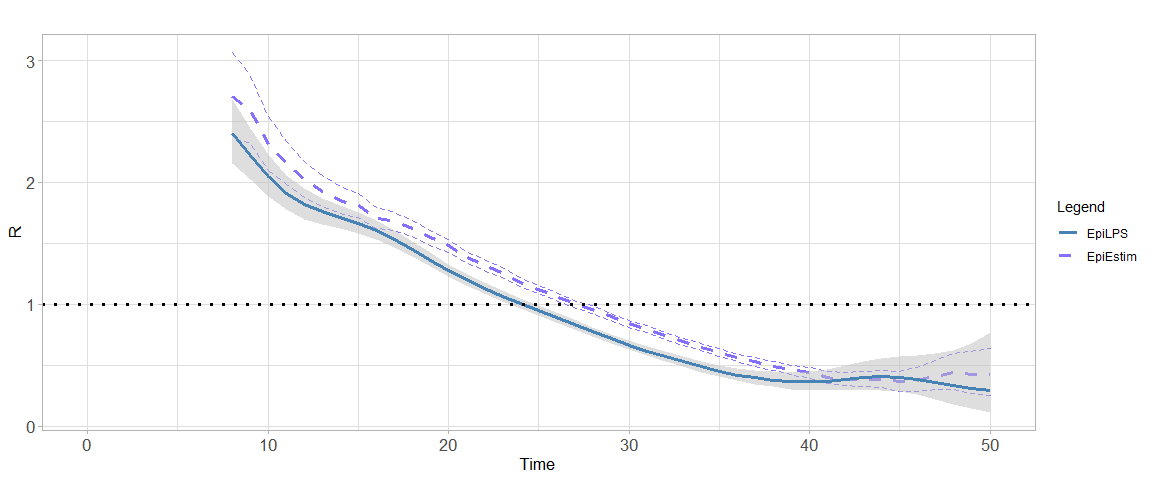
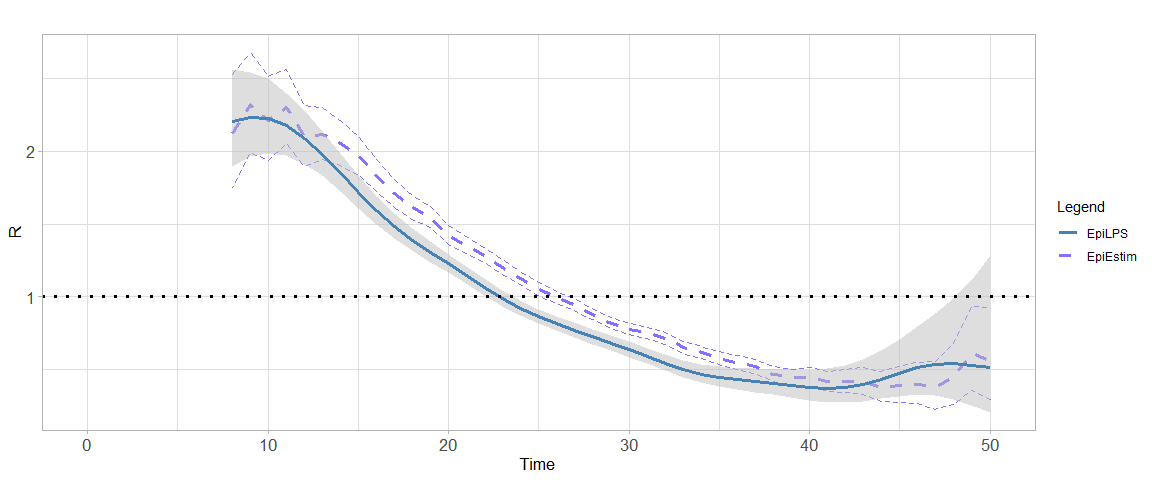
Update README file

Changed region(s): [[0.0312, 0.125, 0.875, 0.8438], [0.0, 0.875, 0.0312, 0.9062]]

diff --git a/README.md b/README.md
@@ -16,65 +16,53 @@ Oswaldo Gressani
 
 ## Aim and scope
 
-EpiLPS <span style="color: blue;"> (Gressani et al. 2021)</span>, is the
+EpiLPS <span style="color: blue;"> (Gressani et al. 2022)</span>, is the
 acronym for **Epi**demiological modeling (tool) with
 **L**aplacian-**P**-**S**plines. It proposes a new Bayesian methodology
-for estimating the instantaneous reproduction number
-![R_t](https://latex.codecogs.com/png.image?%5Cdpi%7B110%7D&space;%5Cbg_white&space;R_t "R_t"),
-i.e. the average number of secondary cases generated by an infectious
-agent at time
-![t](https://latex.codecogs.com/png.image?%5Cdpi%7B110%7D&space;%5Cbg_white&space;t "t")
-<span style="color: blue;"> (White et al., 2020) </span>; a key metric
-for assessing the transmission dynamics of an infectious disease and a
-useful reference for guiding interventions of governmental institutions
-in a public health crisis. The EpiLPS project builds upon two strong
-pillars in the statistical literature, namely Bayesian P-splines and
-Laplace approximations, to deliver a fast and flexible methodology for
-inference on
-![R_t](https://latex.codecogs.com/png.image?%5Cdpi%7B110%7D&space;%5Cbg_white&space;R_t "R_t").
-EpiLPS requires two (external) inputs: (1) a time series of incidence
-counts and (2) a serial or generation interval distribution.
+for estimating the instantaneous reproduction number $R_t$, i.e. the
+average number of secondary cases generated by an infectious agent at
+time $t$ <span style="color: blue;"> (White et al., 2020) </span>; a key
+metric for assessing the transmission dynamics of an infectious disease
+and a useful reference for guiding interventions of governmental
+institutions in a public health crisis. The EpiLPS project builds upon
+two strong pillars in the statistical literature, namely Bayesian
+P-splines and Laplace approximations, to deliver a fast and flexible
+methodology for inference on $R_t$. EpiLPS requires two (external)
+inputs: (1) a time series of incidence counts and (2) a serial or
+generation interval distribution.
 
 The underlying model for smoothing incidence counts is based on the
 Negative Binomial distribution to account for possible overdispersion in
-the data. EpiLPS has a *two-phase engine* for estimating
-![R_t](https://latex.codecogs.com/png.image?%5Cdpi%7B110%7D&space;%5Cbg_white&space;R_t "R_t").
-First, Bayesian P-splines are used to smooth the epidemic curve and to
-compute estimates of the mean incidence count of the susceptible
-population at each day
-![t](https://latex.codecogs.com/png.image?%5Cdpi%7B110%7D&space;%5Cbg_white&space;t "t")
-of the outbreak. Second, in the philosophy of <span
+the data. EpiLPS has a *two-phase engine* for estimating $R_t$. First,
+Bayesian P-splines are used to smooth the epidemic curve and to compute
+estimates of the mean incidence count of the susceptible population at
+each day $t$ of the outbreak. Second, in the philosophy of <span
 style="color: blue;"> Fraser (2007)</span>, the renewal equation is used
 as a bridge to link the estimated mean incidence and the reproduction
 number. As such, the second phase delivers a closed-form expression of
-![R_t](https://latex.codecogs.com/png.image?%5Cdpi%7B110%7D&space;%5Cbg_white&space;R_t "R_t")
-as a function of the B-spline coefficients and the serial interval
+$R_t$ as a function of the B-spline coefficients and the serial interval
 distribution.
 
 Another key strength of EpiLPS is that two different strategies can be
-used to estimate
-![R_t](https://latex.codecogs.com/png.image?%5Cdpi%7B110%7D&space;%5Cbg_white&space;R_t "R_t").
-The first approach called LPSMAP is completely sampling-free and fully
-relies on Laplace approximations and *maximum a posteriori* computation
-of model hyperparameters for estimation. Routines for Laplace
-approximations and B-splines evaluations are typically the ones that are
-computationally most intensive and are therefore coded in C++ and
-integrated in R via the [Rcpp package](https://www.rcpp.org/), making
-them time irrelevant. The second approach is called LPSMALA
-(Laplacian-P-splines with a Metropolis-adjusted Langevin algorithm) and
-is fully stochastic. It samples the posterior of the model by using
-Langevin diffusions in a Metropolis-within-Gibbs framework. Of course,
-LPSMAP has a computational advantage over LPSMALA. Thanks to the
-lightning fast implementation of Laplace approximations, LPSMAP
-typically delivers estimate of
-![R_t](https://latex.codecogs.com/png.image?%5Cdpi%7B110%7D&space;%5Cbg_white&space;R_t "R_t")
-in a fraction of a second. The chart below, summarizes the skeleton and
-mechanisms behind EpiLPS for estimating
-![R_t](https://latex.codecogs.com/png.image?%5Cdpi%7B110%7D&space;%5Cbg_white&space;R_t "R_t").
+used to estimate $R_t$. The first approach called LPSMAP is completely
+sampling-free and fully relies on Laplace approximations and *maximum a
+posteriori* computation of model hyperparameters for estimation.
+Routines for Laplace approximations and B-splines evaluations are
+typically the ones that are computationally most intensive and are
+therefore coded in C++ and integrated in R via the [Rcpp
+package](https://www.rcpp.org/), making them time irrelevant. The second
+approach is called LPSMALA (Laplacian-P-splines with a
+Metropolis-adjusted Langevin algorithm) and is fully stochastic. It
+samples the posterior of the model by using Langevin diffusions in a
+Metropolis-within-Gibbs framework. Of course, LPSMAP has a computational
+advantage over LPSMALA. Thanks to the lightning fast implementation of
+Laplace approximations, LPSMAP typically delivers estimate of $R_t$ in a
+fraction of a second. The chart below, summarizes the skeleton and
+mechanisms behind EpiLPS for estimating $R_t$.
 
 <br> <!-- Include a white space -->
 
-<img src="man/figures/EpiLPSchart.jpg" title="The EpiLPS tool: path from incidence data and serial interval to the estimated reproduction number." alt="The EpiLPS tool: path from incidence data and serial interval to the estimated reproduction number." width="80%" style="display: block; margin: auto;" />
+<img src="man/figures/EpiLPSchart.jpg" alt="The EpiLPS tool: path from incidence data and serial interval to the estimated reproduction number." width="80%" style="display: block; margin: auto;" />
 
 ## Getting started
 
@@ -100,10 +88,10 @@ library("EpiLPS")
 The EpiLPS package structure is fairly simple. It has three main
 routines and an S3 method for plots:
 
--   `epilps()` The main routine for model fit.
--   `plot.epilps()` S3 method to plot an object of class `epilps`.
--   `episim()` A routine to simulate epidemic data.
--   `perfcheck()` Checks the performance of `epilps()` via simulations.
+- `epilps()` The main routine for model fit.
+- `plot.epilps()` S3 method to plot an object of class `epilps`.
+- `episim()` A routine to simulate epidemic data.
+- `perfcheck()` Checks the performance of `epilps()` via simulations.
 
 ## A simulated example
 
@@ -132,13 +120,12 @@ The simulated incidence count data can be accessed by typing:
 simepi$y
 ```
 
-    ##  [1]  10   4  15  13  29  37  61  67 106 112 144 178 221 272 328 352 458 478 515
-    ## [20] 576 547 612 596 566 563 521 487 415 370 296 261 202 152 131  86  62  44  41
-    ## [39]  23  13  11  11   6   4   6   4   1   1   1   0
+    ##  [1]  10   2   9   9  19  20  26  29  61  59 100  94 161 176 208 237 254 310 321
+    ## [20] 308 361 358 317 287 290 281 224 201 170 145 131  91  64  60  34  31  26  14
+    ## [39]  13  11   5   1   5   2   1   3   2   2   1   0
 
 The `epilps()` routine can be used to fit the epidemic data. By default,
-the LPSMAP approach is used with 30 B-splines in the interval
-![\[1;50\]](https://latex.codecogs.com/png.image?%5Cdpi%7B110%7D&space;%5Cbg_white&space;%5B1%3B50%5D "[1;50]")
+the LPSMAP approach is used with 30 B-splines in the interval $[1;50]$
 and a second order penalty. The `plot()` routine on the `epifit_LPSMAP`
 object can be used to plot the estimated reproduction number.
 
@@ -148,9 +135,9 @@ epifit_LPSMAP <- epilps(incidence = simepi$y, serial_interval = si, tictoc = TRU
 
     ## Inference method chosen: LPSMAP. 
     ## CI for LPSMAP computed via lognormal posterior approx. of Rt.Total number of days: 50. 
-    ## Mean Rt discarding first 7 days: 0.935.
-    ## Mean 95% CI of Rt discarding first 7 days: (0.851,1.047) 
-    ## Elapsed real time (wall clock time): 0.25 seconds.
+    ## Mean Rt discarding first 7 days: 0.962.
+    ## Mean 95% CI of Rt discarding first 7 days: (0.846,1.121) 
+    ## Elapsed real time (wall clock time): 0.18 seconds.
 
 ``` r
 plot(epifit_LPSMAP)
@@ -162,13 +149,10 @@ plot(epifit_LPSMAP)
 
 Several options can be specified in the `plot()` routine. For instance,
 graphical parameters such as `themetype` and `rtcol` can be used to
-control the theme and color of the fitted
-![R_t](https://latex.codecogs.com/png.image?%5Cdpi%7B110%7D&space;%5Cbg_white&space;R_t "R_t")
-curve. In addition, the option `overlayEpiestim` can be set to `TRUE` to
-overlay the estimated
-![R_t](https://latex.codecogs.com/png.image?%5Cdpi%7B110%7D&space;%5Cbg_white&space;R_t "R_t")
-curve with the EpiEstim package of <span style="color: blue;"> Cori et
-al., (2013) </span>.
+control the theme and color of the fitted $R_t$ curve. In addition, the
+option `overlayEpiestim` can be set to `TRUE` to overlay the estimated
+$R_t$ curve with the EpiEstim package of <span style="color: blue;">
+Cori et al., (2013) </span>.
 
 ``` r
 plot(epifit_LPSMAP, themetype = "light", rtcol = "steelblue", overlayEpiestim = TRUE)
@@ -178,13 +162,9 @@ plot(epifit_LPSMAP, themetype = "light", rtcol = "steelblue", overlayEpiestim = 
 
 <br>
 
-The numerical values of the estimated
-![R(t)](https://latex.codecogs.com/png.image?%5Cdpi%7B110%7D&space;%5Cbg_white&space;R%28t%29 "R(t)")
-at days
-![t=8,\\dots,14](https://latex.codecogs.com/png.image?%5Cdpi%7B110%7D&space;%5Cbg_white&space;t%3D8%2C%5Cdots%2C14 "t=8,\dots,14")
-obtained with LPSMAP and the associated
-![95\\%](https://latex.codecogs.com/png.image?%5Cdpi%7B110%7D&space;%5Cbg_white&space;95%5C%25 "95\%")
-credible interval can be obtained by typing:
+The numerical values of the estimated $R(t)$ at days $t=8,\dots,14$
+obtained with LPSMAP and the associated $95\%$ credible interval can be
+obtained by typing:
 
 ``` r
 knitr::kable(epifit_LPSMAP$epifit[8:14,2:4])
@@ -192,13 +172,13 @@ knitr::kable(epifit_LPSMAP$epifit[8:14,2:4])
 
 |     |  R_estim | R95CI_low | R95CI_up |
 |:----|---------:|----------:|---------:|
-| 8   | 2.400739 |  2.151855 | 2.678409 |
-| 9   | 2.223205 |  2.023275 | 2.442890 |
-| 10  | 2.049500 |  1.882000 | 2.231908 |
-| 11  | 1.912324 |  1.774338 | 2.061040 |
-| 12  | 1.818282 |  1.696983 | 1.948251 |
-| 13  | 1.759342 |  1.654123 | 1.871254 |
-| 14  | 1.714138 |  1.618886 | 1.814994 |
+| 8   | 2.204270 |  1.894574 | 2.564590 |
+| 9   | 2.236554 |  1.964842 | 2.545839 |
+| 10  | 2.229905 |  1.988416 | 2.500723 |
+| 11  | 2.176162 |  1.973002 | 2.400241 |
+| 12  | 2.087442 |  1.912433 | 2.278466 |
+| 13  | 1.978134 |  1.832564 | 2.135269 |
+| 14  | 1.852436 |  1.726431 | 1.987637 |
 
 A smooth estimate of the epidemic curve can be obtained with the code
 below. The option `epicol` controls the color of the curve and
@@ -228,21 +208,57 @@ si <- c(0.2, 0.2, 0.2, 0.2, 0.2)
 
 # Luxembourg
 Luxembourg <- covid19(country = "LUX", level = 1, verbose = FALSE)
+```
+
+    ## Warning in require_bit64_if_needed(ans): Some columns are type 'integer64'
+    ## but package bit64 is not installed. Those columns will print as strange
+    ## looking floating point data. There is no need to reload the data. Simply
+    ## install.packages('bit64') to obtain the integer64 print method and print the
+    ## data again.
+
+``` r
 dateLUX <- Luxembourg$date[75:649]
 inciLUX <- Luxembourg$hosp[75:649]
 
 # Italy
 Italy <- covid19(country = "ITA", level = 1, verbose = FALSE)
+```
+
+    ## Warning in require_bit64_if_needed(ans): Some columns are type 'integer64'
+    ## but package bit64 is not installed. Those columns will print as strange
+    ## looking floating point data. There is no need to reload the data. Simply
+    ## install.packages('bit64') to obtain the integer64 print method and print the
+    ## data again.
+
+``` r
 dateITA <- Italy$date[42:616]
 inciITA <- Italy$hosp[42:616]
 
 # Canada
 Canada <- covid19(country = "CAN", level = 1, verbose = FALSE)
+```
+
+    ## Warning in require_bit64_if_needed(ans): Some columns are type 'integer64'
+    ## but package bit64 is not installed. Those columns will print as strange
+    ## looking floating point data. There is no need to reload the data. Simply
+    ## install.packages('bit64') to obtain the integer64 print method and print the
+    ## data again.
+
+``` r
 dateCAN <- Canada$date[71:645]
 inciCAN <- Canada$hosp[71:645]
 
 # Japan
 Japan<- covid19(country = "JPN", level = 1, verbose = FALSE)
+```
+
+    ## Warning in require_bit64_if_needed(ans): Some columns are type 'integer64'
+    ## but package bit64 is not installed. Those columns will print as strange
+    ## looking floating point data. There is no need to reload the data. Simply
+    ## install.packages('bit64') to obtain the integer64 print method and print the
+    ## data again.
+
+``` r
 dateJPN <- Japan$date[75:649]
 inciJPN <- Japan$hosp[75:649]
 
@@ -250,6 +266,14 @@ inciJPN <- Japan$hosp[75:649]
 epiLUX <- epilps(incidence = inciLUX, serial_interval = si, verbose = FALSE)
 epiITA <- epilps(incidence = inciITA, serial_interval = si, verbose = FALSE)
 epiCAN <- epilps(incidence = inciCAN, serial_interval = si, verbose = FALSE)
+```
+
+    ## Warning in epilps(incidence = inciCAN, serial_interval = si, verbose =
+    ## FALSE): Count data contains 3.65% of NA values that have been replaced (see
+    ## documentation for details). A 'too high' percentage of NA values can bias the
+    ## analysis, so care should be taken in interpreting the results in this case.
+
+``` r
 epiJPN <- epilps(incidence = inciJPN, serial_interval = si, verbose = FALSE)
 
 gridExtra::grid.arrange(
@@ -270,14 +294,12 @@ nrow = 2, ncol = 2)
 
 To check the (statistical) performance of EpiLPS, the `perfcheck()`
 routine can be used to simulate epidemic outbreaks under four different
-scenarios. Each scenario has a different
-![R_t](https://latex.codecogs.com/png.image?%5Cdpi%7B110%7D&space;%5Cbg_white&space;R_t "R_t")
-curve to be compared with the estimated trajectories fitted by EpiLPS.
-For comparative reasons, the trajectories of EpiEstim (with a weekly
-sliding window) are also shown. The code below simulates 25 epidemic
-outbreaks with a data generating process following scenario 3 and a
-given serial interval distribution. A seed can also be specified for
-reproducibility.
+scenarios. Each scenario has a different $R_t$ curve to be compared with
+the estimated trajectories fitted by EpiLPS. For comparative reasons,
+the trajectories of EpiEstim (with a weekly sliding window) are also
+shown. The code below simulates 25 epidemic outbreaks with a data
+generating process following scenario 3 and a given serial interval
+distribution. A seed can also be specified for reproducibility.
 
 ``` r
 simexample <- perfcheck(S = 20, method = "LPSMALA",
@@ -319,8 +341,8 @@ Action under the H2020 work programme, EpiPose (grant number 101003688).
 
 ## License
 
-EpiLPS: a fast and flexible Bayesian tool for near real-time estimation
-of the time-varying reproduction number. Copyright (C) 2021-2022 Oswaldo
+EpiLPS: a fast and flexible Bayesian tool for estimation of the
+time-varying reproduction number. Copyright (C) 2021-2023 Oswaldo
 Gressani.
 
 This program is free software: you can redistribute it and/or modify it
@@ -338,10 +360,10 @@ with this program. If not, see <https://www.gnu.org/licenses/>.
 
 ## References
 
-Gressani, O., Wallinga, J., Althaus, C., Hens, N. and Faes, C. (2021).
-EpiLPS: a fast and flexible Bayesian tool for near real-time estimation
-of the time-varying reproduction number. *MedRxiv preprint*,
-<https://doi.org/10.1101/2021.12.02.21267189>
+Gressani, O., Wallinga, J., Althaus, C. L., Hens, N. and Faes, C.
+(2022). EpiLPS: A fast and flexible Bayesian tool for estimation of the
+time-varying reproduction number. *PLoS Comput Biol* **18**(10):
+e1010618. <https://doi.org/10.1371/journal.pcbi.1010618>
 
 White, L. F., Moser, C. B., Thompson, R. N., & Pagano, M. (2021).
 Statistical estimation of the reproductive number from case notification
